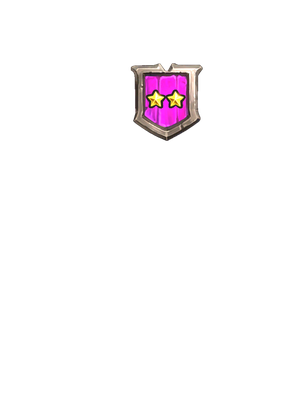
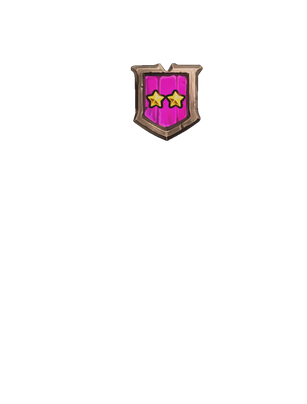
Opponent boards: parts lit as on the board; card numbers centred on their gems
Tier badges and the icons under the oval came out of the capture scene whiter than the board lights them; their RGB is scaled by (0.86, 0.78, 0.73), measured against real shop frames. The numbered card picture gets a clear margin each side, so a wide number stays centred on its gem and hangs over the card's edge instead of being pushed inward. tools/BoardCaptures/README.md records how the parts are made.

Changed region(s): [[0.4104, 0.1485, 0.6743, 0.3564]]

diff --git a/HsbgCardLookup/Ui/CardStats.cs b/HsbgCardLookup/Ui/CardStats.cs
@@ -24,11 +24,15 @@ namespace HsbgCardLookup.Ui
         // Belwe's digits are 0.62 em tall; a longer number is set smaller, as the game does.
         private const double DigitEm = 0.62;
         public static Action<string> Log;
+        /// <summary>Clear pixels added left and right of the render, so a wide number stays centred on its
+        /// gem and hangs over the card's edge, as the game lets it.</summary>
+        public const int Margin = 90;
         private static readonly double[] Shrink = { 1.0, 1.0, 0.88, 0.72, 0.6, 0.5 };
         // The owner wants the new numbers clearly larger than the render's own.
         private const double Larger = 1.3;
 
-        /// <summary>The render with these numbers, frozen; the render itself when its digits can't be found.</summary>
+        /// <summary>The render with these numbers, frozen and <see cref="Margin"/> wider on each side; the
+        /// render itself (no margin) when its digits can't be found.</summary>
         public static BitmapSource WithNumbers(BitmapSource render, string attack, string health, int oldAttackDigits, int oldHealthDigits,
             Brush attackFill, Brush healthFill)
         {
@@ -46,11 +50,12 @@ namespace HsbgCardLookup.Ui
                 var visual = new DrawingVisual();
                 using (var dc = visual.RenderOpen())
                 {
-                    dc.DrawImage(clean, new Rect(0, 0, w, h));
-                    if (!a.IsEmpty) Number(dc, attack, a, oldAttackDigits, attackFill, w);
-                    if (!b.IsEmpty) Number(dc, health, b, oldHealthDigits, healthFill, w);
+                    dc.DrawImage(clean, new Rect(Margin, 0, w, h));
+                    a.Offset(Margin, 0); b.Offset(Margin, 0);
+                    if (!a.IsEmpty) Number(dc, attack, a, oldAttackDigits, attackFill);
+                    if (!b.IsEmpty) Number(dc, health, b, oldHealthDigits, healthFill);
                 }
-                var target = new RenderTargetBitmap(w, h, 96, 96, PixelFormats.Pbgra32);
+                var target = new RenderTargetBitmap(w + 2 * Margin, h, 96, 96, PixelFormats.Pbgra32);
                 target.Render(visual);
                 target.Freeze();
                 return target;
@@ -60,17 +65,13 @@ namespace HsbgCardLookup.Ui
 
         // The new number where the old one was: same centre, and the old digits' height scaled by how
         // many digits each has.
-        private static void Number(DrawingContext dc, string text, Rect old, int oldDigits, Brush fill, int width)
+        private static void Number(DrawingContext dc, string text, Rect old, int oldDigits, Brush fill)
         {
             double perDigit = old.Height / DigitEm / Shrink[Math.Min(Math.Max(oldDigits, 1), Shrink.Length - 1)];
             double size = perDigit * Larger * Shrink[Math.Min(text.Length, Shrink.Length - 1)];
             var shape = Assets.GameArt.NumberOutline(text, size).Clone();
             var box = shape.Bounds;
-            // Centred on the old digits, but kept whole inside the picture: a wide number moves inward.
-            double edge = size * 0.08 + 1;
-            double x = old.X + old.Width / 2 - box.Width / 2;
-            x = Math.Max(edge, Math.Min(x, width - box.Width - edge));
-            shape.Transform = new TranslateTransform(x - box.X, old.Y + old.Height / 2 - (box.Y + box.Height / 2));
+            shape.Transform = new TranslateTransform(old.X + old.Width / 2 - (box.X + box.Width / 2), old.Y + old.Height / 2 - (box.Y + box.Height / 2));
             dc.DrawGeometry(null, new Pen(Brushes.Black, size * 0.13) { LineJoin = PenLineJoin.Round }, shape);
             dc.DrawGeometry(fill, null, shape);
         }

diff --git a/HsbgCardLookup/Ui/OpponentBoardPanel.cs b/HsbgCardLookup/Ui/OpponentBoardPanel.cs
@@ -412,8 +412,17 @@ namespace HsbgCardLookup.Ui
                 if (render == null) return;
                 if (stats == null) { img.Source = render; return; }
                 int baseAtk = (golden ? card.AttackGold : card.Attack) ?? stats.Attack, baseHp = (golden ? card.HealthGold : card.Health) ?? stats.Health;
-                img.Source = CardStats.WithNumbers(render, Short(stats.Attack), Short(stats.Health), baseAtk.ToString().Length, baseHp.ToString().Length,
+                var numbered = CardStats.WithNumbers(render, Short(stats.Attack), Short(stats.Health), baseAtk.ToString().Length, baseHp.ToString().Length,
                     Brushes.White, Brushes.White);
+                img.Source = numbered;
+                if (!ReferenceEquals(numbered, render))
+                {
+                    // The numbered picture has a clear margin each side for overhanging numbers: draw it
+                    // wider by that margin and pull it back, so the card itself keeps its place and size.
+                    double fit = Math.Min(w / render.PixelWidth, h / render.PixelHeight), pad = fit * CardStats.Margin;
+                    img.Width = w + 2 * pad; img.Height = h;
+                    img.Margin = new Thickness(-pad, 0, -pad, 0);
+                }
             };
             var hit = CardArt.GetSync(card, golden, 0);
             if (hit != null) set(hit);

diff --git a/tools/BoardCaptures/README.md b/tools/BoardCaptures/README.md
@@ -1,0 +1,15 @@
+# Board part captures
+
+The opponent-board minions are drawn from `HsbgCardLookup/data/board/*.png`: HS_CardExtractor renders of an
+in-play minion with one part left on. To redo them (a patch changed a frame, a new keyword):
+
+1. `powershell -File E:\VvS-tournament\tools\rebuild-and-render.ps1 -List <this folder>\pieces.json`
+   (and `pieces-art.json`). It rebuilds the extractor, restarts Hearthstone and writes 1024x1345 PNGs to
+   `E:\PYPY\HS_CardExtractor\v2-output\custom\toolkit-board\pieces\`. Restart Hearthstone afterwards: the
+   capture scene stays up.
+2. Scale each to 307x404 into `data/board/`. Two are processed on the way:
+   - `frame`: the normal ring has a grey plate behind the art; subtract `art.png`'s alpha (shrunk 4 px) from it.
+   - `badge-1..7`, `deathrattle`, `rally`, `trigger`, `venomous`, `poisonous`: multiply RGB by
+     (0.86, 0.78, 0.73). The capture scene lights them whiter than the board does; measured 2026-11-19
+     against real shop frames (skull 225,213,212 -> 207,173,159; badge magenta 236,49,222 -> 184,66,160).
+3. `diag.json` lists a minion's renderer names (`frameDiag`) in `BepInEx/LogOutput.log`.
